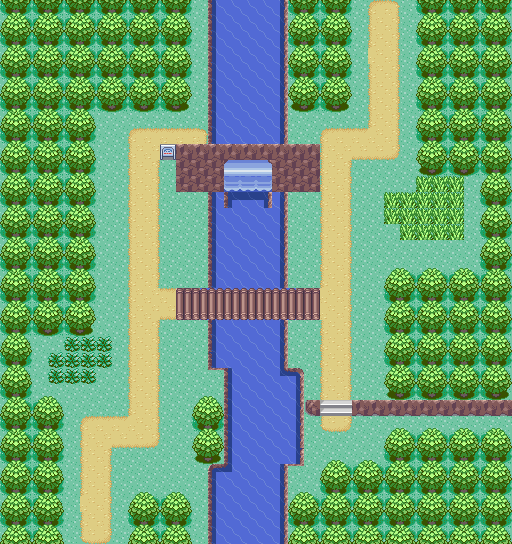
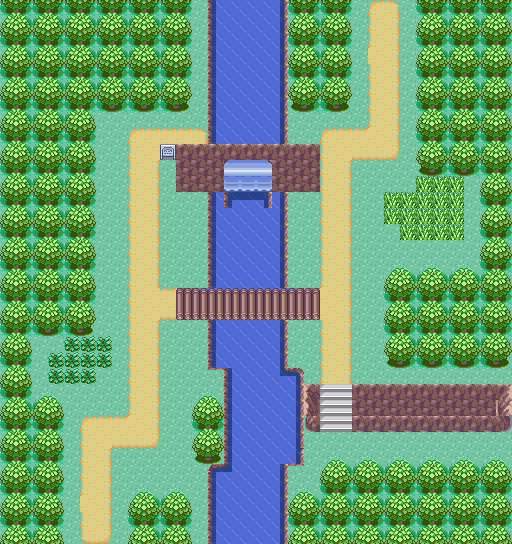
Complete the upper riverbank terrace and stair joins

Changed region(s): [[0.5938, 0.6562, 1.0, 0.875]]

diff --git a/tools/virelia/polish_rainfall.py b/tools/virelia/polish_rainfall.py
@@ -284,10 +284,12 @@ def build():
         for dx, t in enumerate(row):
             u.rect(14 + dx, 10 + dy, 1, 1, t, True)
     u.bridge(12, 18, 7)
-    for x in range(19, 32):
-        u.rect(x, 25, 1, 1, 0x078 if x == 19 else 0x079, True)
-    u.rect(20, 25, 1, 1, 0x0AF)
-    u.rect(21, 25, 1, 1, 0x0CF)
+    # Complete a three-row bank, including its river-facing side and foot.
+    terrace = {(x, y) for y in range(24, 27) for x in range(19, 32)}
+    u.land.update(paint_rock_outcrop(u.g, terrace, elevation=u.e))
+    for y in range(24, 27):
+        u.rect(20, y, 1, 1, 0x0AF)
+        u.rect(21, y, 1, 1, 0x0CF)
     u.grass([".###", "####", "###."], 3, 21)
     u.grass(["..###", "#####", "#####", ".####"], 24, 11, True)
     u.rect(10, 9, 1, 1, 3, True)
